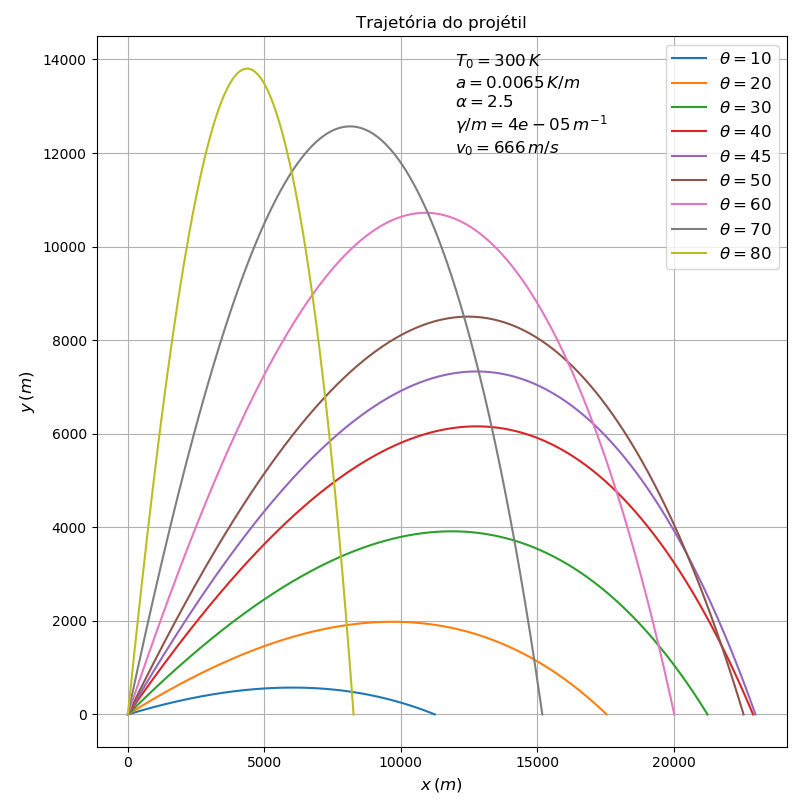
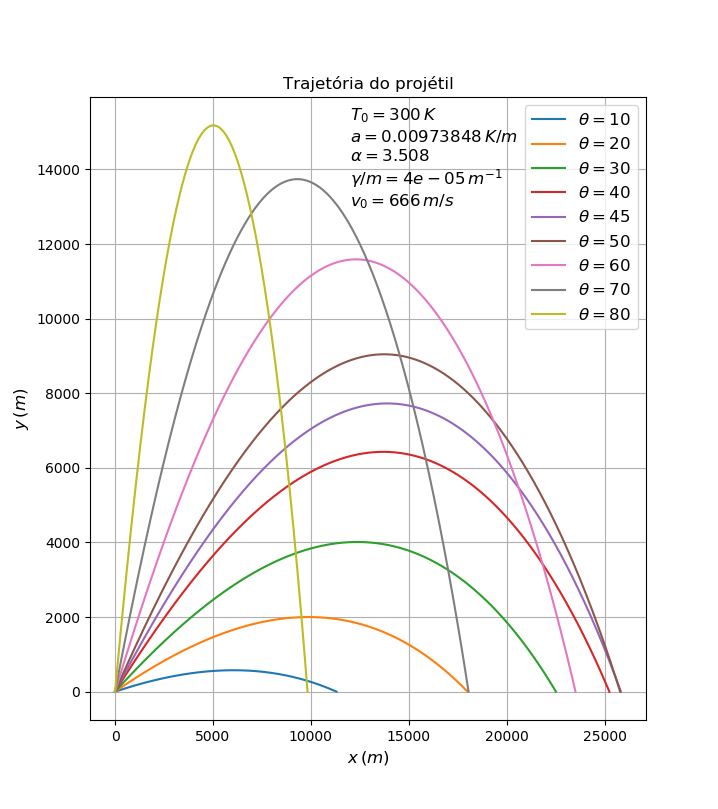
[P3 - Eric] item 2 - constantes melhoradas

diff --git a/projeto3/2.py b/projeto3/2.py
@@ -4,11 +4,12 @@ import subprocess
 
 
 # simulation parameters
+# a and alpha from https://en.wikipedia.org/wiki/Atmospheric_pressure#Altitude_variation
 v0    = 666
 theta = [10, 20, 30, 40, 45, 50, 60, 70, 80]
 gamma = 4e-5
-a     = 6.5e-3
-alpha = 2.5
+a     = 0.00973848
+alpha = 3.508
 T0    = 300
 dt    = 0.001
 
@@ -69,7 +70,7 @@ ax.grid()
 plt.title("Trajetória do projétil", fontsize = 'large')
 plt.ylabel("$y \, (m)$", fontsize = 'large')
 plt.xlabel("$x \, (m)$", fontsize = 'large')
-plt.text(12e3, 12e3, "$T_0       = {} \, K   $\n".format(T0) + 
+plt.text(12e3, 13e3, "$T_0       = {} \, K   $\n".format(T0) + 
                      "$a         = {} \, K/m $\n".format(a) +
                      "$\\alpha   = {} \,     $\n".format(alpha) +
                      "$\\gamma/m = {} \, m^{}$\n".format(gamma, "{-1}") +
